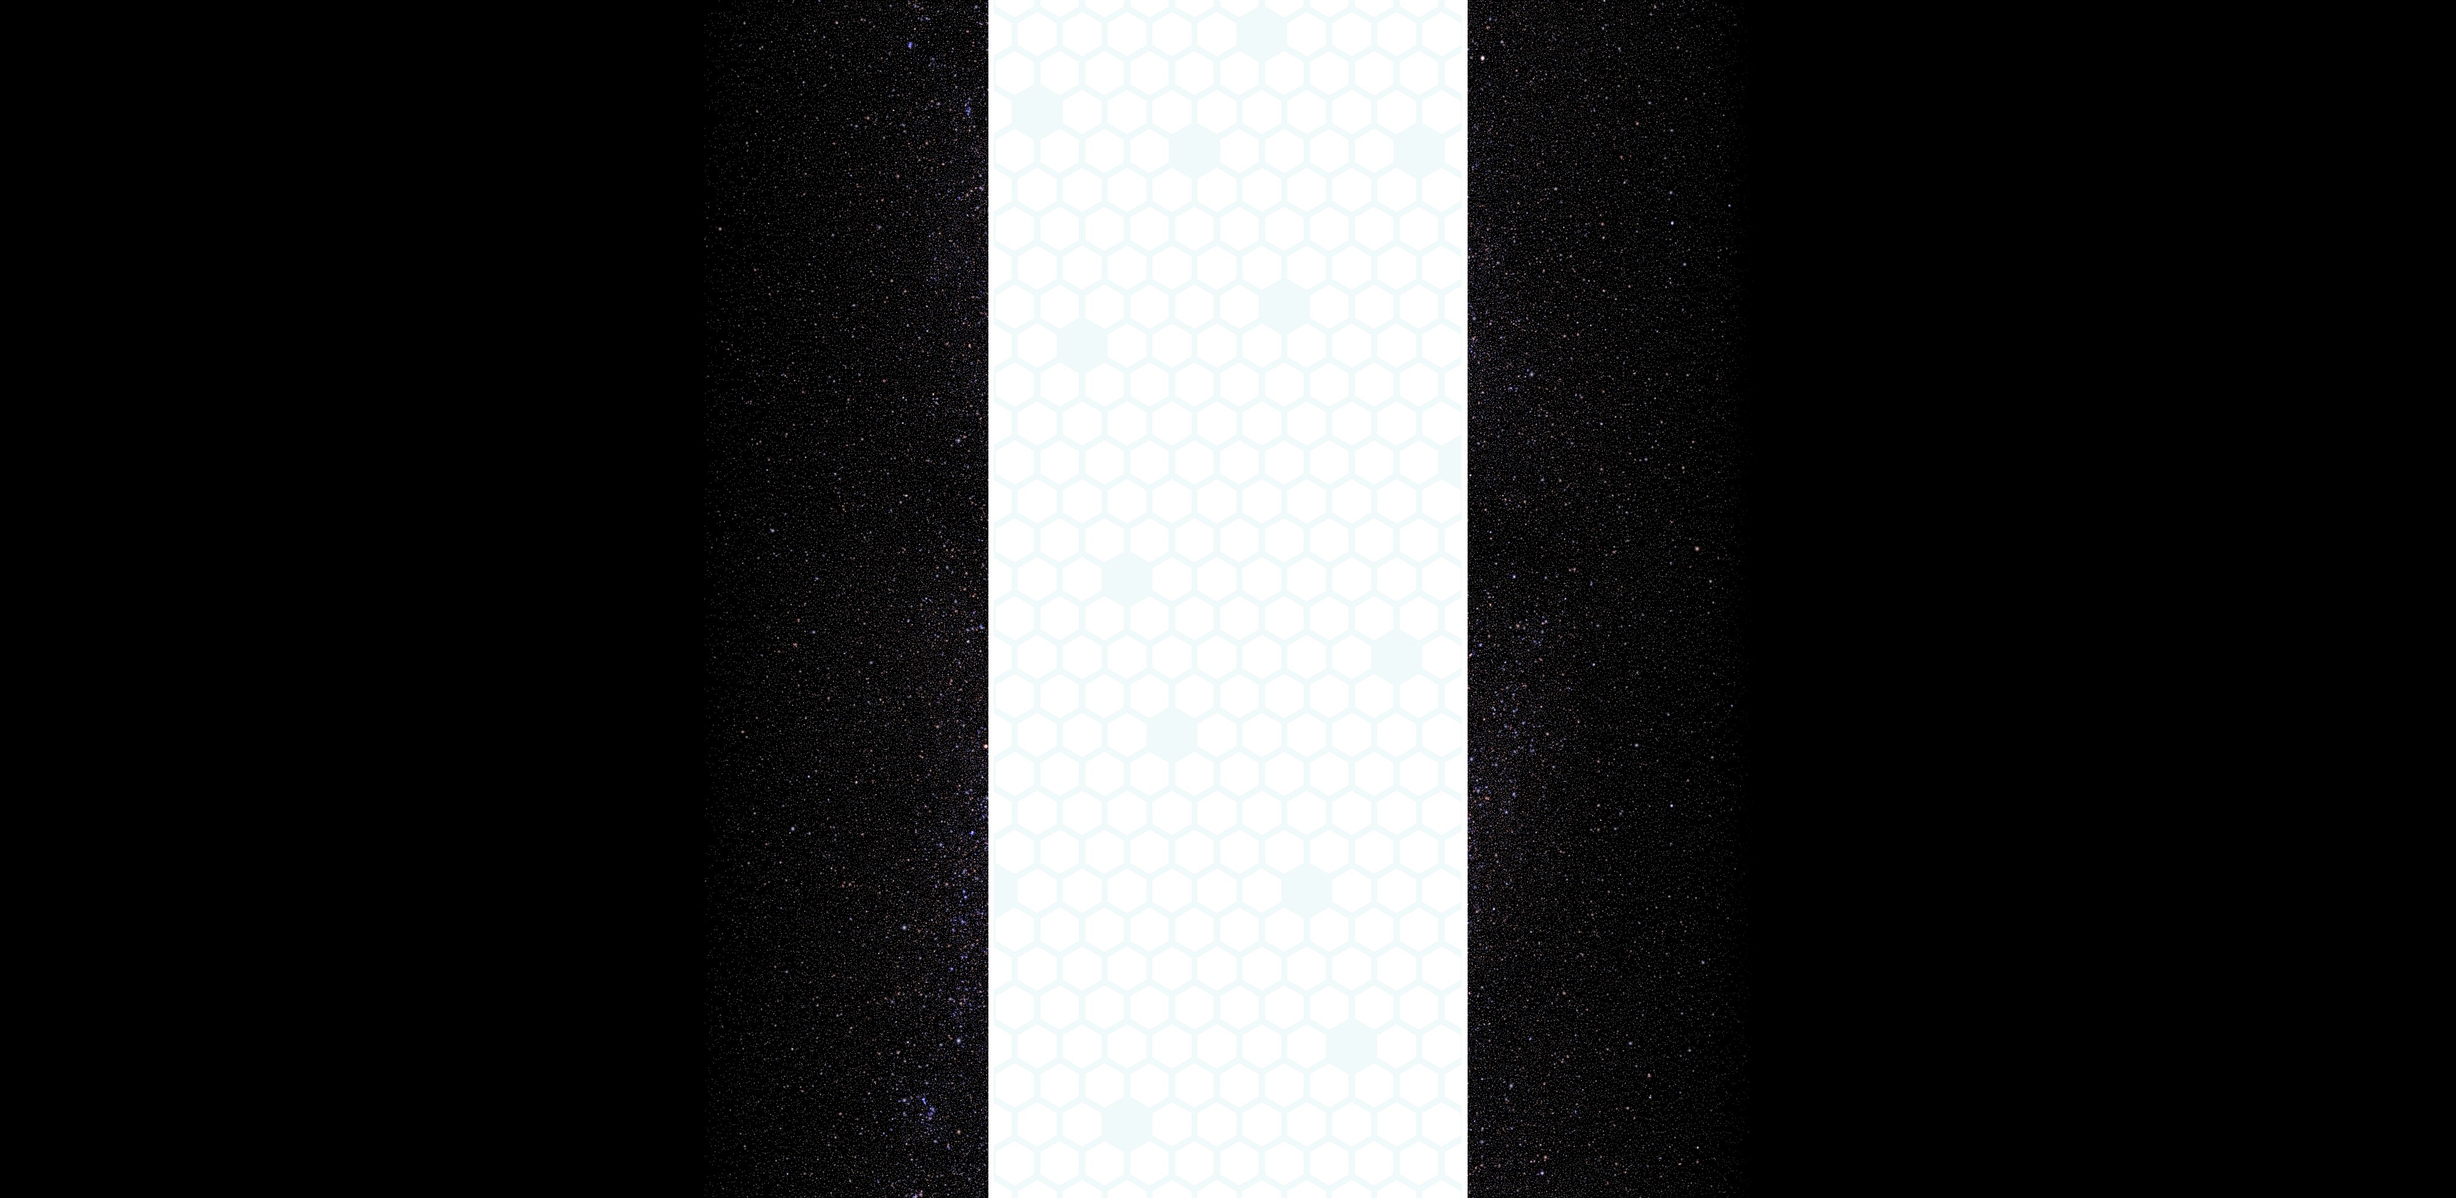
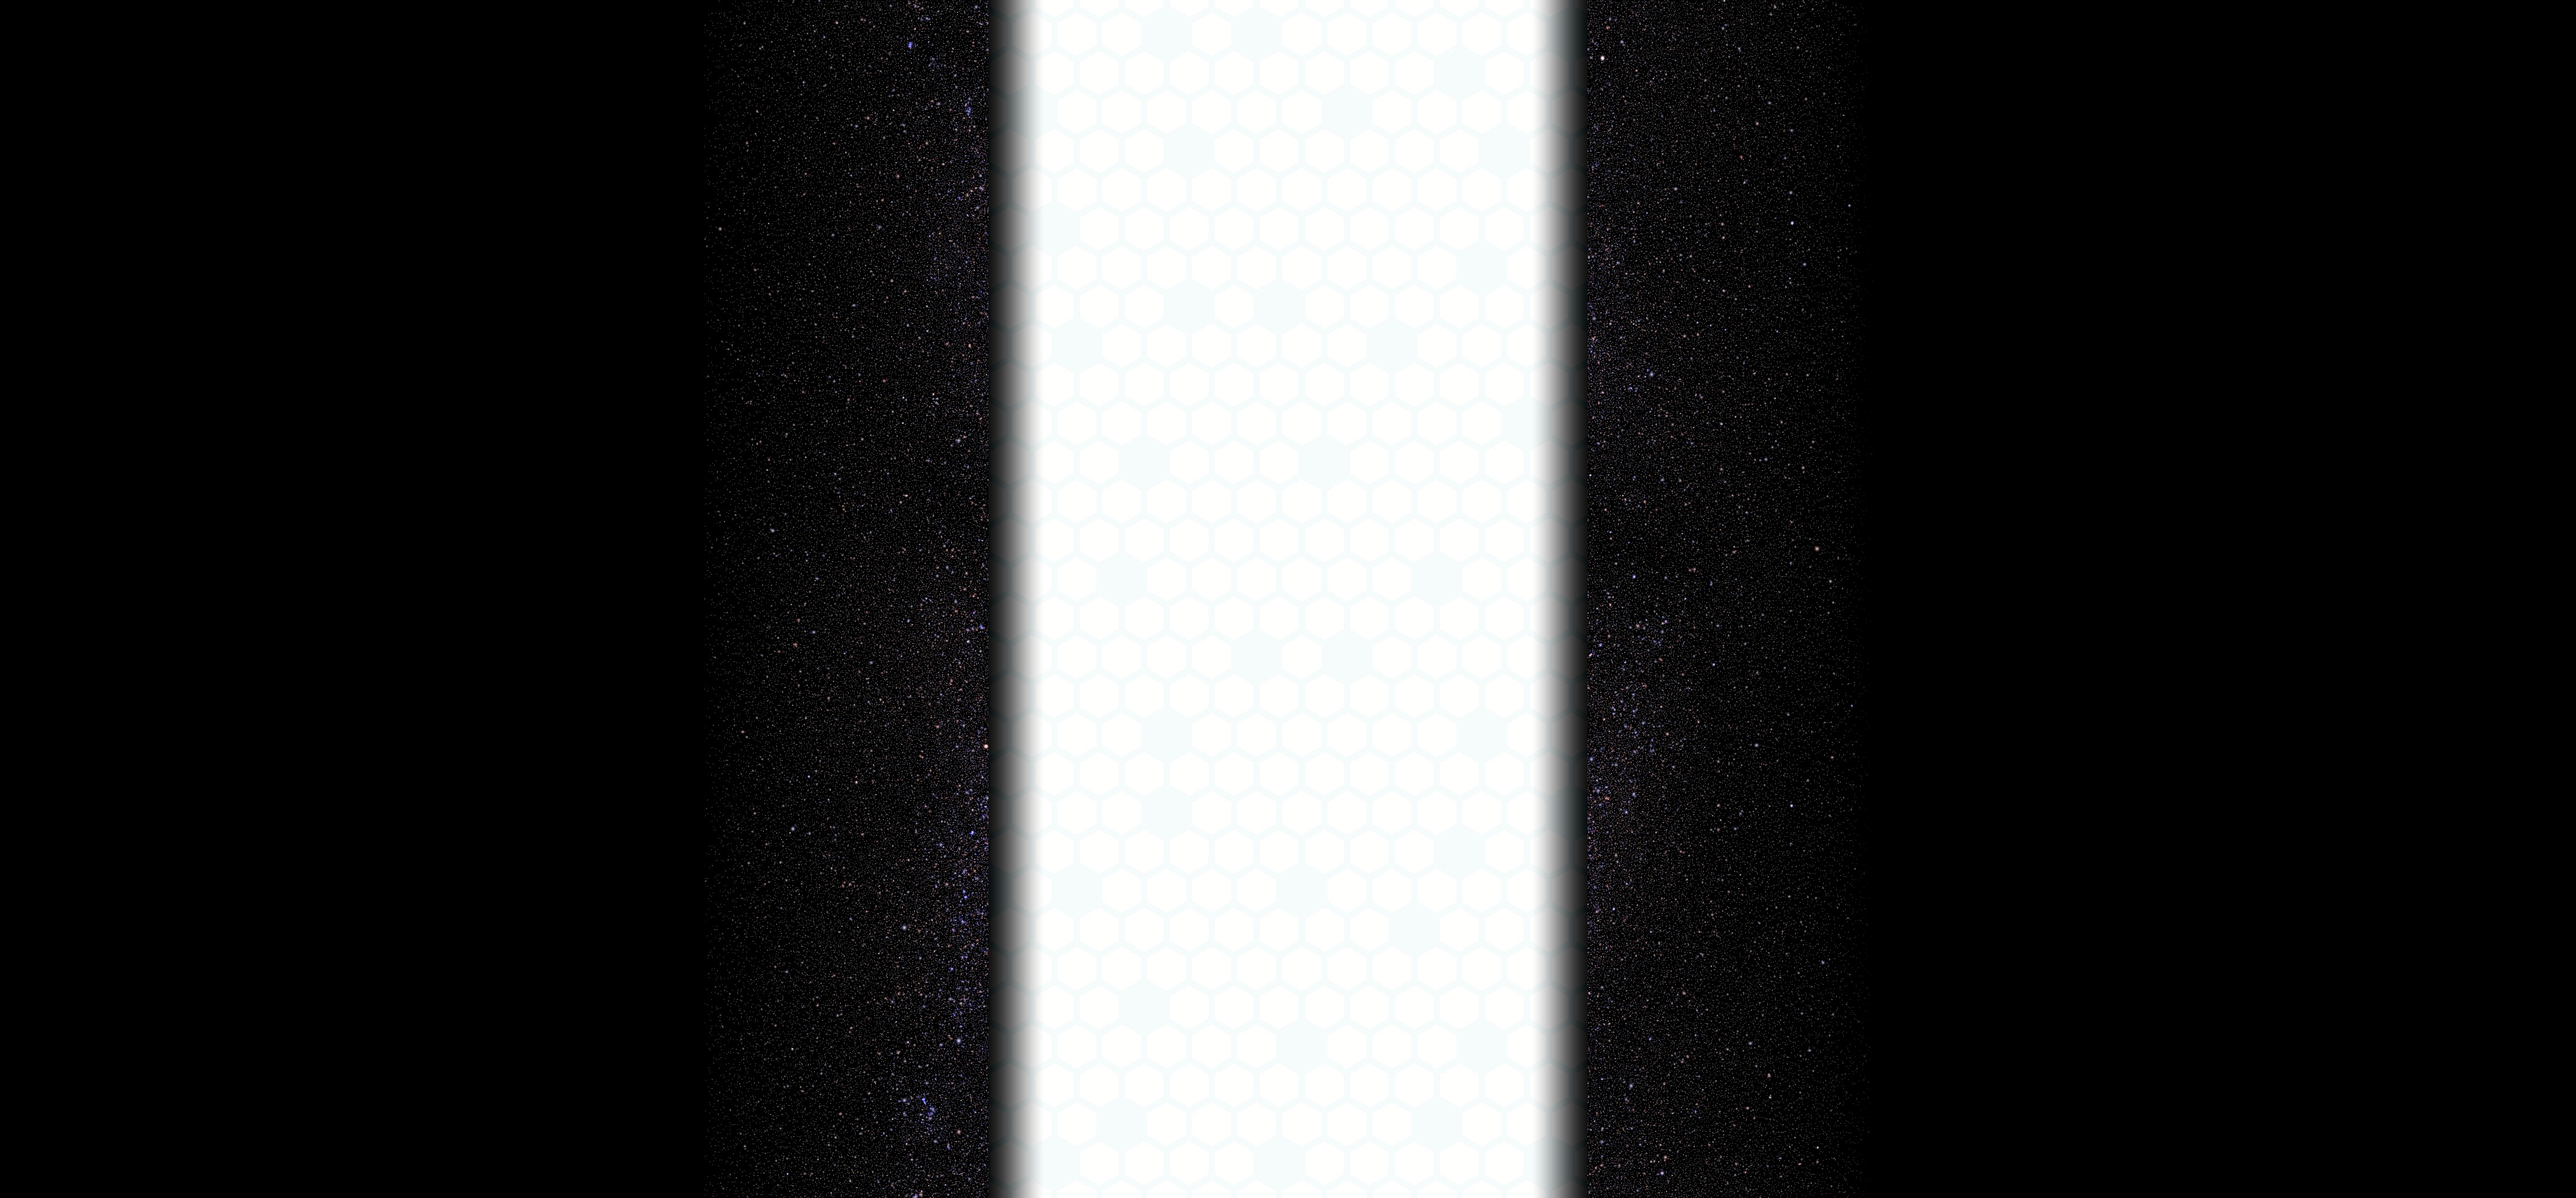
finalizing styling
+updated final bg
+index,machine,building,&post page updates
+structure changes

Changed region(s): [[0.281, 0.0, 0.4059, 1.0], [0.5932, 0.0, 0.718, 1.0]]

diff --git a/public/stylesheets/style.css b/public/stylesheets/style.css
@@ -37,21 +37,16 @@ a:active {
     width:800px;
     font-size: 20px;
   }
-  .title{
-    padding: 50px 0 50px 0;
-    
-  }
   h1, h2 {    
     font-family: 'Franklin Gothic Medium', 'Arial Narrow', Arial, sans-serif;
-    text-align: left;
-    padding-left: 50px;
-    padding-top: 10px;
+    padding-top: 30px ;
     text-decoration: underline;
+
   }
   /* red-rounded border */
   .popup_form, #control_header, .text_bubble, .individual_delete_wrapper, 
   .individual_user_wrapper, .individual_machine_wrapper, .individual_desk_wrapper, 
-  .individual_location_wrapper, #map{
+  .individual_location_wrapper, #map, #machine_datasheet {
     border-color:#d60019;
     -moz-border-radius: 55px;
     -webkit-border-radius: 55px;
@@ -193,10 +188,11 @@ a:active {
   .database_wrapper {
     width:762px;
     height: 100%;
-    border-style:double;
+    border-style: double;
     border-width: 5px;
     margin-left: 14.5px;
-    background-color:grey; 
+    color:white;
+    background-image:url(../assets/stripped_bg.jpg);
   }
   .database_label {
     text-align: left;
@@ -216,6 +212,7 @@ a:active {
     background-color: #fff;
     text-align: left;
     padding-left:20px;
+    color:black;
   }
   .post_buttons {
     float:right;
@@ -235,11 +232,14 @@ a:active {
     cursor: pointer;
   }
   #comment {
-    width: 350px;
-    height: 10vh;
+    width: 100%;
+    height: 45px;
     text-align: center;
     font-family: 'Tahoma','Arial', 'Arial Narrow', Arial, sans-serif;
     font-size: 20px;
+    -moz-box-shadow: 4px 4px 17px #000;
+    -webkit-box-shadow: 4px 4px 17px #000;
+    box-shadow: 4px 4px 17px #000;
   }
   .comment_wrapper {
     width:95%;
@@ -247,7 +247,8 @@ a:active {
     border-style:double;
     border-width: 5px;
     margin-left: 14.5px;
-    background-color:grey; 
+    color:white;
+    background-image:url(../assets/stripped_bg.jpg);
   }
   .database_comment {
     width:95%;
@@ -257,16 +258,18 @@ a:active {
     margin-left:9px;
     padding:5px;
     background-color: #fff;
+    color:black;
   }
   #left_side {
     float: left;
-    width:300px;
-    height:100px;
+    width:330px;
+    height:200px;
+    padding-left:70px;
   }
   #right_side {
-    float: right;
-    width:300px;
-    height:100px;
+    float: left;
+    width:400px;
+    height:200px;
   }
   .individual_delete_wrapper {
     text-align: center;
@@ -331,8 +334,8 @@ a:active {
     width:100%;
   }
   .machine_header{
-    height:100px;
     width: 100%;
+    padding-bottom: 50px;
   }
   #user_overview {
     text-align:left;

diff --git a/public/stylesheets/login.css b/public/stylesheets/login.css
@@ -42,6 +42,9 @@
     text-shadow: 5px 5px 5px #000000;
     font-family: 'Franklin Gothic Medium', 'Arial Narrow', Arial, sans-serif;
   }
+  h2 {
+    text-decoration:underline solid;
+  }
   #popup_loginform {
     display:none;
   }
@@ -61,7 +64,7 @@
     -moz-box-shadow: 4px 4px 14px #000;
     -webkit-box-shadow: 4px 4px 14px #000;
     box-shadow: 4px 4px 14px #000;
-    border-style: double;
+    border-style: inset;
   }
   #form_loginelement {
     padding-bottom:8px;
